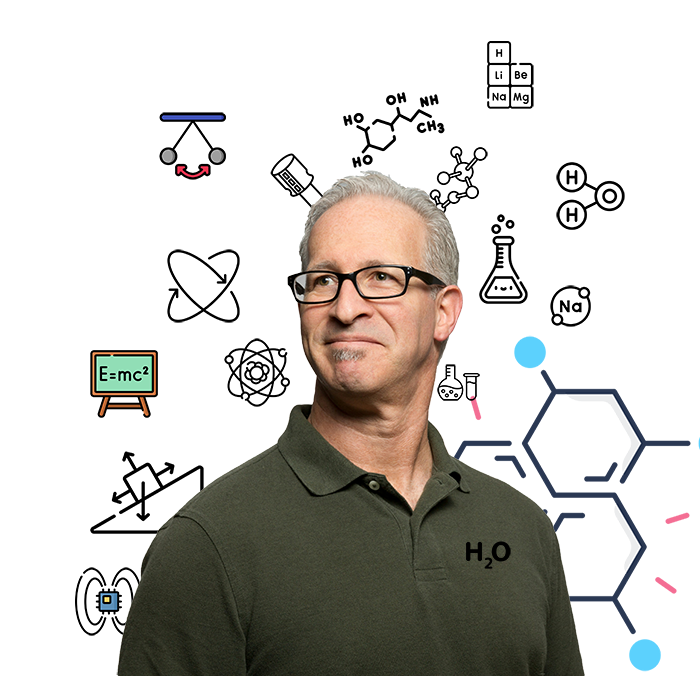
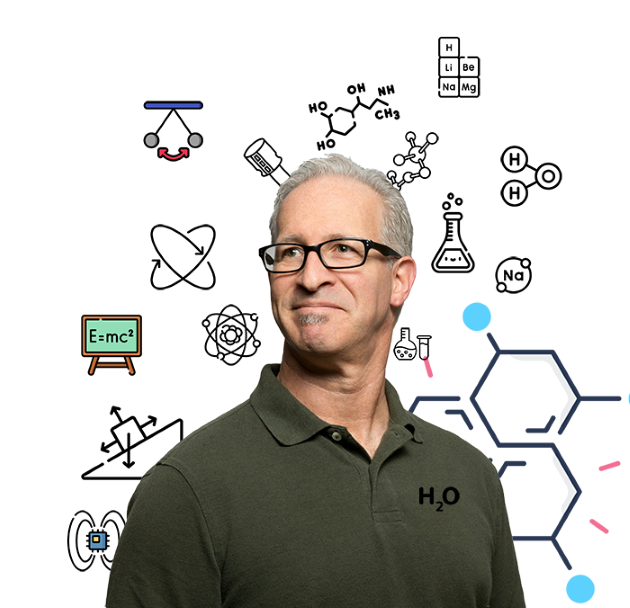
reducing some image sizes and make the loading is lazy

diff --git a/index.html b/index.html
@@ -43,6 +43,7 @@
               <li>
                 <a href="#">
                   <img
+                    loading="lazy"
                     src="https://cdn-icons-png.flaticon.com/128/1384/1384053.png"
                     alt="facebook logo"
                   />
@@ -51,6 +52,7 @@
               <li>
                 <a href="#">
                   <img
+                    loading="lazy"
                     src="https://cdn-icons-png.flaticon.com/128/15713/15713434.png"
                     alt="whatsapp logo"
                   />
@@ -59,6 +61,7 @@
               <li>
                 <a href="#">
                   <img
+                    loading="lazy"
                     src="https://cdn-icons-png.flaticon.com/128/5968/5968771.png"
                     alt="massenger logo"
                   />
@@ -84,6 +87,7 @@
             <li>
               <a href="#">
                 <img
+                  loading="lazy"
                   src="https://cdn-icons-png.flaticon.com/128/1384/1384053.png"
                   alt="facebook logo"
                 />
@@ -92,6 +96,7 @@
             <li>
               <a href="#">
                 <img
+                  loading="lazy"
                   src="https://cdn-icons-png.flaticon.com/128/15713/15713434.png"
                   alt="whatsapp logo"
                 />
@@ -100,6 +105,7 @@
             <li>
               <a href="#">
                 <img
+                  loading="lazy"
                   src="https://cdn-icons-png.flaticon.com/128/5968/5968771.png"
                   alt="massenger logo"
                 />
@@ -115,31 +121,37 @@
     <main>
       <section id="hero-section">
         <img
+          loading="lazy"
           src="./imgs/hero-decorator 1.png"
           class="hero-decorator"
           alt="some chemisty lab equeiptments"
         />
         <img
+          loading="lazy"
           src="./imgs/hero-decorator 2.png"
           class="hero-decorator"
           alt="atom"
         />
         <img
+          loading="lazy"
           src="./imgs/hero-decorator 3.png"
           class="hero-decorator"
           alt="einestien cartoon flat character"
         />
         <img
+          loading="lazy"
           src="./imgs/hero-decorator 4.png"
           class="hero-decorator"
           alt="some phyiscs functions"
         />
         <img
+          loading="lazy"
           src="./imgs/hero-decorator 5.png"
           class="hero-decorator"
           alt="E = M * C the famous equation for inesitien"
         />
         <img
+          loading="lazy"
           src="./imgs/hero-decorator 6.png"
           class="hero-decorator"
           alt="adrenalin formula"
@@ -160,6 +172,7 @@
         <div class="container hero-container grid grid-2">
           <div class="hero-image-box">
             <img
+              loading="lazy"
               src="./imgs/hero-image.png"
               alt="man looking right with some chemistry and physics sympols floating around him"
             />
@@ -195,7 +208,7 @@
             </p>
           </div>
           <div class="about-image-box">
-            <img src="./imgs/about-us.jpg" alt="" />
+            <img loading="lazy" src="./imgs/about-us.jpg" alt="" />
             <p><span>البروف:- </span>ايمن حماد</p>
           </div>
         </div>
@@ -233,11 +246,13 @@
       </section>
       <section id="our-students" class="our-students-section">
         <img
+          loading="lazy"
           src="./imgs/formula 2.png"
           alt="chemistry formular"
           class="background-img"
         />
         <img
+          loading="lazy"
           src="./imgs/formula.png"
           alt="chemistry formula"
           class="background-img"
@@ -250,6 +265,7 @@
           <div class="student-card">
             <div class="student-card-image-box">
               <img
+                loading="lazy"
                 src="./imgs/student 1.jfif"
                 alt="man looking to the camera"
               />
@@ -263,6 +279,7 @@
           <div class="student-card">
             <div class="student-card-image-box">
               <img
+                loading="lazy"
                 src="./imgs/student 2.jfif"
                 alt="man looking to the camera"
               />
@@ -276,6 +293,7 @@
           <div class="student-card">
             <div class="student-card-image-box">
               <img
+                loading="lazy"
                 src="./imgs/student 3.jfif"
                 alt="man looking to the camera"
               />
@@ -289,6 +307,7 @@
           <div class="student-card">
             <div class="student-card-image-box">
               <img
+                loading="lazy"
                 src="./imgs/student 4.jfif"
                 alt="man looking to the camera"
               />
@@ -302,6 +321,7 @@
           <div class="student-card">
             <div class="student-card-image-box">
               <img
+                loading="lazy"
                 src="./imgs/student 5.jfif"
                 alt="man looking to the camera"
               />
@@ -315,6 +335,7 @@
           <div class="student-card">
             <div class="student-card-image-box">
               <img
+                loading="lazy"
                 src="./imgs/student 6.jfif"
                 alt="man looking to the camera"
               />
@@ -328,6 +349,7 @@
           <div class="student-card">
             <div class="student-card-image-box">
               <img
+                loading="lazy"
                 src="./imgs/student 7.jfif"
                 alt="man looking to the camera"
               />
@@ -444,6 +466,7 @@
           <div class="cta-whatsapp">
             <div class="whatsapp-logo">
               <img
+                loading="lazy"
                 src="https://cdn-icons-png.flaticon.com/128/15713/15713434.png"
                 alt="whatsapp logo"
               />
